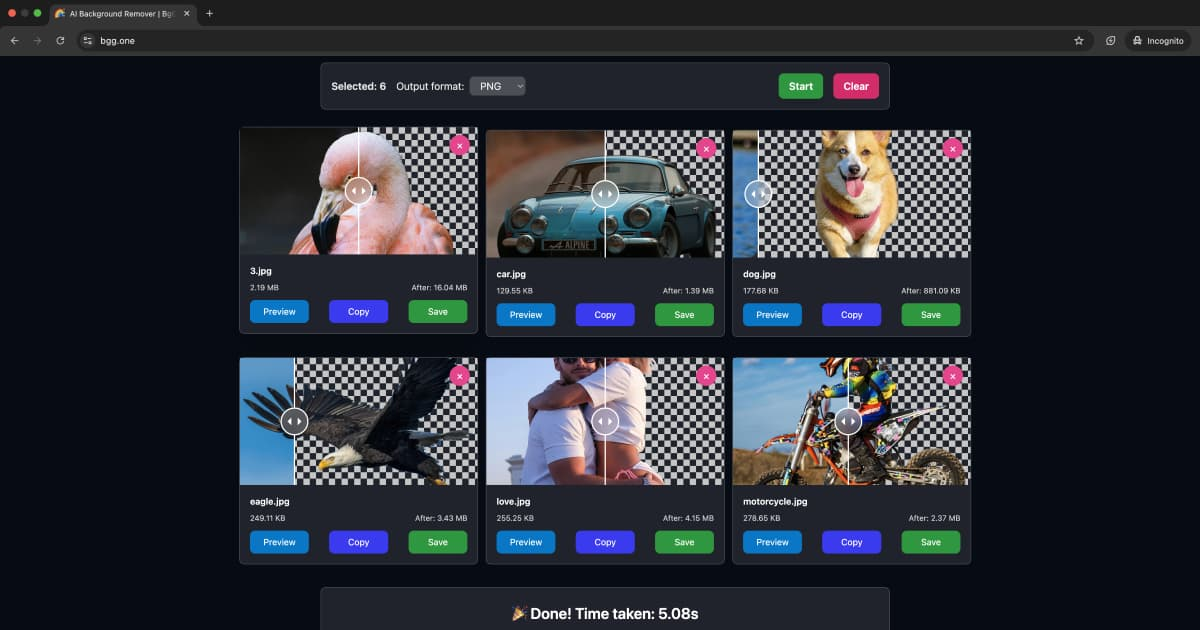
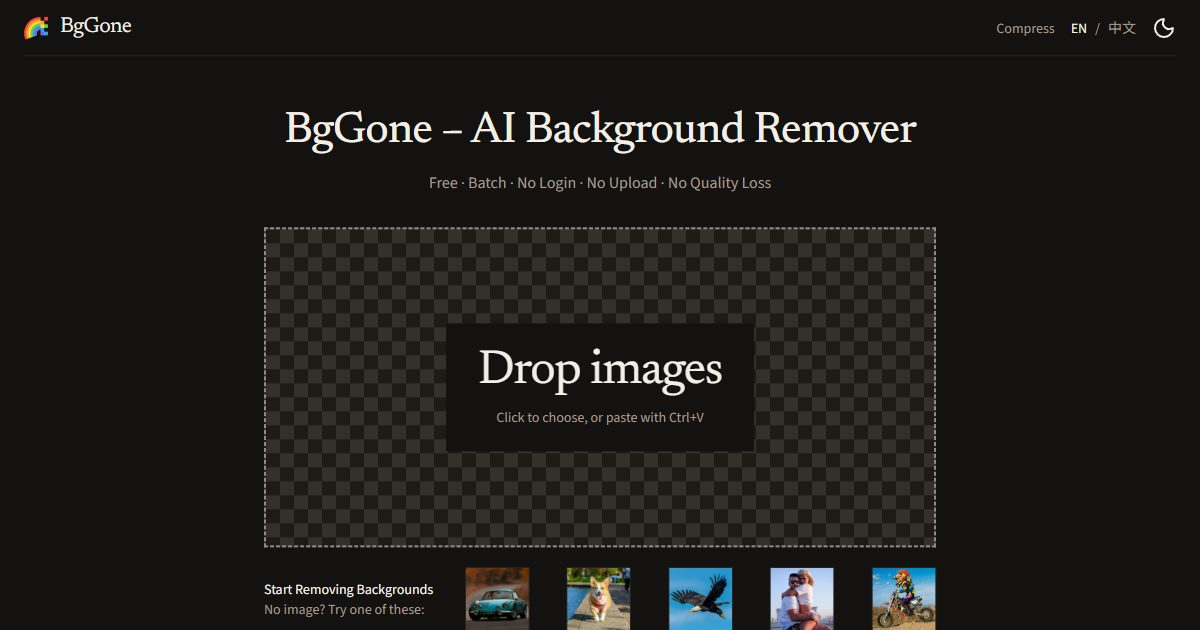
feat: cross-link the two tools and refresh their share images

diff --git a/lib/seo.ts b/lib/seo.ts
@@ -203,7 +203,7 @@ export function compressMetadata(lang: Lang): Metadata {
   const canonical = new URL(localizedPath(lang, '/compress/'), SITE_URL).href;
   const enUrl = new URL(localizedPath('en', '/compress/'), SITE_URL).href;
   const zhUrl = new URL(localizedPath('zh', '/compress/'), SITE_URL).href;
-  const ogImage = '/bggone-bg-remover.jpg';
+  const ogImage = '/bggone-compress.jpg';
 
   return {
     title: copy.title,

diff --git a/lib/launch.ts b/lib/launch.ts
@@ -1,4 +1,10 @@
-/** Covers, styles, and sign-in stay in the repo and off the public site. */
+/** Unfinished tools stay in the repo and off the public site. */
 export const showUnfinished = false;
 
-export const unfinishedPaths = ['/covers/', '/styles/', '/login/'] as const;
+export const unfinishedPaths = [
+  '/covers/',
+  '/styles/',
+  '/login/',
+  '/photo-restoration/',
+  '/nano-banana/',
+] as const;

diff --git a/app/(en)/nano-banana/layout.tsx b/app/(en)/nano-banana/layout.tsx
@@ -1,0 +1,5 @@
+import Unfinished from '@/components/Unfinished';
+
+export default function Layout({ children }: { children: React.ReactNode }) {
+  return <Unfinished>{children}</Unfinished>;
+}

diff --git a/app/(en)/photo-restoration/layout.tsx b/app/(en)/photo-restoration/layout.tsx
@@ -1,0 +1,5 @@
+import Unfinished from '@/components/Unfinished';
+
+export default function Layout({ children }: { children: React.ReactNode }) {
+  return <Unfinished>{children}</Unfinished>;
+}

diff --git a/content/en/index.md b/content/en/index.md
@@ -46,6 +46,12 @@ Unlike other background removal tools, this one:
 - Handles multiple images — in a single batch
 - Costs nothing — no usage limits or paywalls
 
+## You can compress images too
+
+A cutout can still be made smaller here, in a batch. JPEG, PNG, and WebP are included, and so is HEIC. You can also aim for a file size. Those files stay on this device too.
+
+[Compress images](/compress/)
+
 ## FAQ
 ### Do I need to log in or create an account?
 No. BgGone needs no login and no signup — just open the page and start removing backgrounds.

diff --git a/content/en/compress.md b/content/en/compress.md
@@ -2,7 +2,7 @@
 
 **BgGone** compresses a batch of images here: shrink JPEG, PNG, and WebP, or turn an iPhone HEIC into a JPEG. The work stays in this browser. Nothing is uploaded, and no login is required.
 
-Add several files, then choose a quality, a long edge, or a target file size. Save them one by one, or pack them into one ZIP.
+Add several files, then choose a quality, a long edge, or a target file size. Save them one by one, or pack them into one ZIP. For a transparent background, [remove it](/) first.
 
 ## How it works
 

diff --git a/content/zh/compress.md b/content/zh/compress.md
@@ -2,7 +2,7 @@
 
 **BgGone** 可以批量压缩图片：缩小 JPEG、PNG、WebP，也能把 iPhone 的 HEIC 转成 JPEG。处理在这台浏览器里完成，文件不上传，也不用登录。
 
-一次可以放入多张。按质量、长边或目标体积压缩，再逐张保存，或多张打成一个 ZIP。
+一次可以放入多张。按质量、长边或目标体积压缩，再逐张保存，或多张打成一个 ZIP。要先得到透明背景，可以 [去除背景](/zh/)。
 
 ## 怎么用
 

diff --git a/content/zh/index.md b/content/zh/index.md
@@ -46,6 +46,12 @@
 - 支持多张图片——一次批量处理
 - 完全免费——没有使用限制或付费墙
 
+## 也可以压缩图片
+
+抠好的图如果还要变小，可以在这台浏览器里批量压缩。JPEG、PNG、WebP 和 HEIC 都能处理，也可以压到指定体积。文件同样留在这台设备上。
+
+[去压缩图片](/zh/compress/)
+
 ## 常见问题
 ### 需要登录或注册吗？
 不需要。BgGone 无需登录、无需注册，打开页面即可开始抠图。
